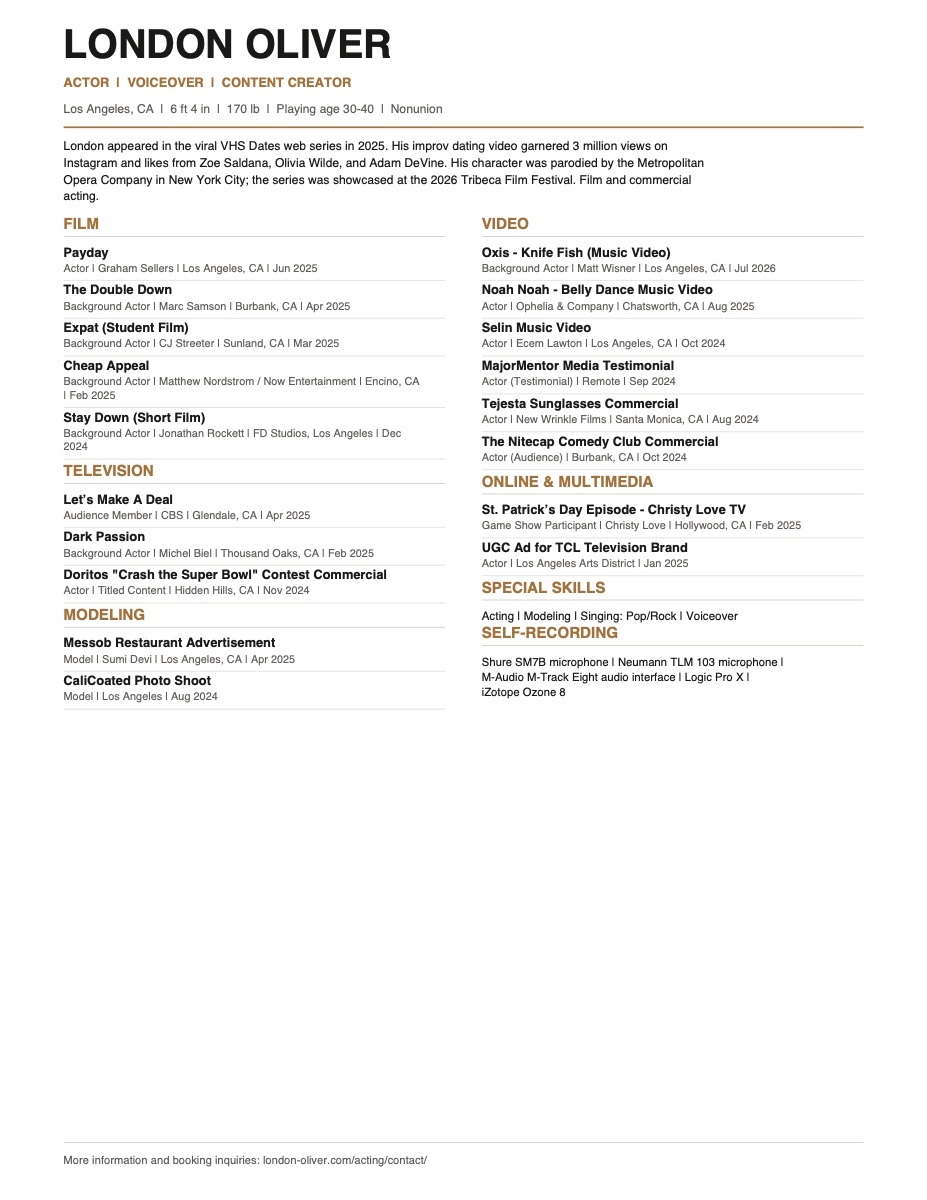
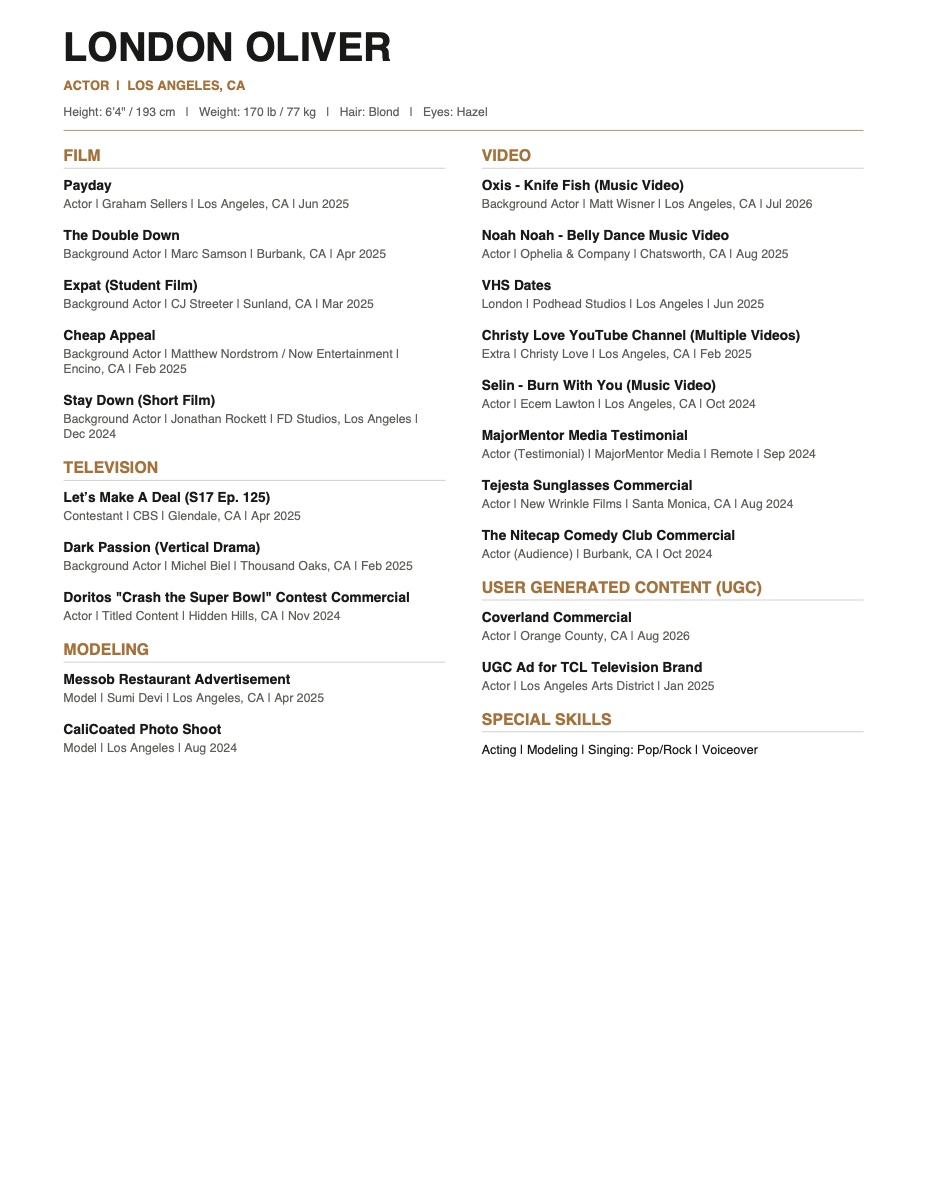
resume page done

diff --git a/acting/resume/index.html b/acting/resume/index.html
@@ -19,8 +19,8 @@
 
         * { box-sizing: border-box; }
         body { margin: 0; background: radial-gradient(circle at 78% 12%, rgba(217, 163, 95, .12), transparent 28rem), var(--paper); color: var(--ink); font-family: 'Manrope', Arial, sans-serif; }
-        header, main { margin: auto; width: min(1080px, calc(100% - clamp(32px, 7vw, 96px))); }
-        header { align-items: center; display: flex; justify-content: space-between; padding: 30px 0 18px; }
+        header, main { margin: 0; width: 100%; }
+        header { align-items: center; display: flex; justify-content: space-between; padding: 30px clamp(16px, 4vw, 48px) 18px; }
         .identity { color: var(--ink); font-family: 'Montserrat', Arial, sans-serif; font-size: clamp(.9rem, 1.8vw, 1.2rem); font-weight: 800; letter-spacing: .12em; line-height: 1.05; max-width: 10ch; text-decoration: none; text-transform: uppercase; }
         nav a { color: var(--muted); font-size: .72rem; font-weight: 700; letter-spacing: .14em; text-decoration: none; text-transform: uppercase; }
         nav a:hover, nav a:focus { color: var(--accent); }
@@ -51,18 +51,28 @@
         .resume-actions a { background: var(--accent); border-radius: 999px; color: #171716; font-size: .68rem; font-weight: 700; letter-spacing: .14em; padding: 16px 24px; text-decoration: none; text-transform: uppercase; }
         .resume-actions a:last-child { background: transparent; border: 1px solid var(--accent); color: var(--accent); }
         .resume-actions a:hover, .resume-actions a:focus { background: var(--ink); border-color: var(--ink); color: #171716; }
-        .download-main { margin: auto; max-width: 960px; padding: clamp(32px, 6vw, 72px) 0 clamp(64px, 10vw, 128px); width: min(960px, calc(100% - clamp(32px, 7vw, 96px))); }
+        .download-main { margin: 0; max-width: none; padding: clamp(32px, 6vw, 72px) clamp(16px, 4vw, 48px) clamp(64px, 10vw, 128px); width: 100%; }
         .download-page { text-align: left; }
-        .download-title { font-size: clamp(2.8rem, 7vw, 5.4rem); line-height: .86; margin: 0 0 clamp(36px, 6vw, 64px); max-width: none; }
-        .download-title span { display: block; }
+        .download-title { font-size: clamp(1.4rem, 5vw, 3.8rem); line-height: 1; margin: 0 0 clamp(36px, 6vw, 64px); max-width: none; white-space: nowrap; }
+        .download-title span { display: inline; }
+        .download-title span:first-child { margin-right: .18em; }
         .download-title span:last-child { color: var(--accent); }
         .download-grid { align-items: start; display: grid; gap: clamp(24px, 5vw, 64px); grid-template-columns: repeat(2, minmax(0, 1fr)); }
         .download-item { margin: 0; min-width: 0; }
-        .download-item img { aspect-ratio: 4 / 5; display: block; object-fit: contain; width: 100%; }
+        .preview-image { background: transparent; border: 0; border-radius: 14px; cursor: zoom-in; display: block; overflow: hidden; padding: 0; width: 100%; }
+        .download-item img { aspect-ratio: 4 / 5; border-radius: inherit; display: block; object-fit: contain; width: 100%; }
         .download-item:first-child img { object-fit: cover; }
+        .resume-pdf-link { background: #fff; border-radius: 14px; cursor: pointer; display: block; overflow: hidden; }
+        .download-item:nth-child(2) img { aspect-ratio: 927 / 1200; }
         .download-links { display: flex; justify-content: center; margin-top: 24px; }
         .download-link { background: var(--accent); border-radius: 999px; color: #171716; display: inline-block; font-size: .68rem; font-weight: 700; letter-spacing: .14em; padding: 16px 24px; text-align: center; text-decoration: none; text-transform: uppercase; }
         .download-link:hover, .download-link:focus-visible { background: var(--ink); color: var(--paper); }
+        .download-link--secondary { background: transparent; border: 1px solid var(--accent); color: var(--accent); }
+        .download-link--secondary:hover, .download-link--secondary:focus-visible { background: var(--accent); color: #171716; }
+        dialog { background: #111; border: 1px solid var(--line); border-radius: 12px; color: var(--ink); max-height: 92vh; max-width: min(92vw, 900px); overflow: hidden; padding: 0; }
+        dialog::backdrop { background: rgba(0, 0, 0, .88); }
+        dialog img { border-radius: 12px; display: block; max-height: 86vh; max-width: 90vw; object-fit: contain; }
+        .close { background: rgba(0, 0, 0, .65); border: 1px solid #777; border-radius: 999px; color: white; cursor: pointer; font-size: 1.4rem; line-height: 1; padding: 8px 12px; position: absolute; right: 12px; top: 12px; }
         .credit-block + .credit-block { margin-top: 48px; }
         .credit-block h2 { color: var(--accent); font-family: 'Montserrat', Arial, sans-serif; font-size: clamp(1.4rem, 3vw, 2rem); font-weight: 700; letter-spacing: .08em; margin: 0 0 18px; text-transform: uppercase; }
         .credits { border-top: 1px solid var(--line); margin: 0; padding: 0; width: 100%; }
@@ -71,16 +81,17 @@
         .credits .role, .credits .meta { color: var(--muted); }
         .credit-note { color: var(--muted); font-size: .95rem; line-height: 1.6; margin: 16px 0 0; }
         .site-footer { border-top: 1px solid var(--line); color: var(--muted); font-size: .78rem; letter-spacing: .04em; padding: 28px 0 36px; }
-        .footer-inner { align-items: center; display: flex; justify-content: space-between; margin: auto; width: min(1080px, calc(100% - clamp(32px, 7vw, 96px))); }
+        .footer-inner { align-items: center; display: flex; justify-content: space-between; margin: 0; padding: 0 clamp(16px, 4vw, 48px); width: 100%; }
         .social-links { display: flex; gap: clamp(20px, 4vw, 48px); }
         .social-links a { color: var(--ink); font-weight: 700; text-decoration: none; }
         .social-links a:hover, .social-links a:focus { color: var(--accent); }
 
         @media (max-width: 700px) {
-            header, main { width: min(100% - 32px, 560px); }
-            .download-main { padding-top: 36px; width: min(100% - 32px, 560px); }
+            header, main { width: 100%; }
+            header { padding-left: 16px; padding-right: 16px; }
+            .download-main { padding: 36px 16px clamp(64px, 10vw, 128px); width: 100%; }
             .download-grid { grid-template-columns: 1fr; max-width: 480px; }
-            .footer-inner { width: min(100% - 32px, 560px); }
+            .footer-inner { padding-left: 16px; padding-right: 16px; width: 100%; }
             header { padding-top: 18px; }
             .menu-toggle { display: flex; }
             .main-nav { align-items: stretch; background: var(--paper); border-bottom: 1px solid var(--line); border-top: 1px solid var(--line); display: none; flex-direction: column; gap: 0; left: 0; padding: 8px 16px 12px; position: absolute; right: 0; text-align: left; top: 62px; z-index: 2; }
@@ -122,22 +133,28 @@
             <h1 class="download-title" id="resume-heading"><span>Headshot</span><span>&amp; Resume</span></h1>
             <div class="download-grid">
                 <figure class="download-item">
-                    <img src="/acting/images/london-oliver-headshot.jpg" alt="London Oliver acting headshot in a black suit" fetchpriority="high">
+                    <button class="preview-image" type="button" data-image="/acting/images/london-oliver-headshot.jpg">
+                        <img src="/acting/images/london-oliver-headshot.jpg" alt="London Oliver in a blue plaid shirt" fetchpriority="high">
+                    </button>
                     <figcaption class="download-links">
                         <a class="download-link" href="/acting/images/london-oliver-headshot.jpg" download="London-Oliver-Headshot.jpg">Download headshot</a>
                     </figcaption>
                 </figure>
                 <figure class="download-item">
-                    <a href="/acting/resume/london-oliver-acting-resume.pdf" target="_blank" rel="noopener noreferrer" aria-label="Open the full resume PDF">
+                    <a class="resume-pdf-link" href="/acting/resume/london-oliver-acting-resume.pdf" target="_blank" rel="noopener noreferrer" aria-label="Open the resume PDF in your browser">
                         <img src="/acting/resume/london-oliver-resume-preview.jpg" alt="Preview of London Oliver’s acting resume" loading="lazy" decoding="async">
                     </a>
                     <figcaption class="download-links">
-                        <a class="download-link" href="/acting/resume/london-oliver-acting-resume.pdf" download="London-Oliver-Acting-Resume.pdf">Download resume (PDF)</a>
+                        <a class="download-link download-link--secondary" href="/acting/resume/london-oliver-acting-resume.pdf" download="London-Oliver-Acting-Resume.pdf">Download resume (PDF)</a>
                     </figcaption>
                 </figure>
             </div>
         </section>
     </main>
+    <dialog id="lightbox" aria-label="Expanded preview">
+        <button class="close" type="button" aria-label="Close preview">&times;</button>
+        <img id="lightbox-image" src="" alt="">
+    </dialog>
     <footer class="site-footer">
         <div class="footer-inner">
             <span>&copy; 2026 London Oliver</span>
@@ -148,6 +165,19 @@
         </div>
     </footer>
     <script>
+        const lightbox = document.querySelector('#lightbox');
+        const lightboxImage = document.querySelector('#lightbox-image');
+        document.querySelectorAll('.preview-image').forEach((preview) => {
+            preview.addEventListener('click', () => {
+                lightboxImage.src = preview.dataset.image;
+                lightboxImage.alt = preview.querySelector('img').alt;
+                lightbox.showModal();
+            });
+        });
+        document.querySelector('.close').addEventListener('click', () => lightbox.close());
+        lightbox.addEventListener('click', (event) => {
+            if (event.target === lightbox) lightbox.close();
+        });
         const menuToggle = document.querySelector('.menu-toggle');
         const mainNav = document.querySelector('.main-nav');
         menuToggle.addEventListener('click', () => {

diff --git a/acting/bio/index.html b/acting/bio/index.html
@@ -20,8 +20,8 @@
         * { box-sizing: border-box; }
 
         body { margin: 0; background: radial-gradient(circle at 78% 12%, rgba(217, 163, 95, .12), transparent 28rem), var(--paper); color: var(--ink); font-family: 'Manrope', Arial, sans-serif; }
-        header, main { margin: auto; width: min(1080px, calc(100% - clamp(32px, 7vw, 96px))); }
-        header { align-items: center; display: flex; justify-content: space-between; padding: 30px 0 18px; }
+        header, main { margin: 0; width: 100%; }
+        header { align-items: center; display: flex; justify-content: space-between; padding: 30px clamp(16px, 4vw, 48px) 18px; }
         .identity { color: var(--ink); font-family: 'Montserrat', Arial, sans-serif; font-size: clamp(.9rem, 1.8vw, 1.2rem); font-weight: 800; letter-spacing: .12em; line-height: 1.05; max-width: 10ch; text-decoration: none; text-transform: uppercase; }
         nav a { color: var(--muted); font-size: .72rem; font-weight: 700; letter-spacing: .14em; text-decoration: none; text-transform: uppercase; }
         nav a:hover, nav a:focus { color: var(--accent); }
@@ -33,7 +33,7 @@
         .main-nav a:hover::after, .main-nav a:focus-visible::after { transform: scaleX(1); transform-origin: left; }
         .menu-toggle { align-items: center; background: transparent; border: 0; color: var(--ink); cursor: pointer; display: none; flex-direction: column; gap: 5px; padding: 8px 2px; }
         .menu-toggle span { background: currentColor; display: block; height: 2px; width: 28px; }
-        main { padding: clamp(72px, 10vw, 140px) 0 0; }
+        main { padding: clamp(72px, 10vw, 140px) clamp(16px, 4vw, 48px) 0; }
         .eyebrow { color: var(--accent); font-size: .7rem; font-weight: 700; letter-spacing: .2em; text-transform: uppercase; }
         .about-hero { align-items: start; display: grid; gap: clamp(32px, 8vw, 112px); grid-template-columns: minmax(240px, .8fr) minmax(0, 1.2fr); }
         .about-portrait { margin: 0; position: relative; }
@@ -55,20 +55,21 @@
         .about-copy summary:hover, .about-copy summary:focus-visible { color: var(--accent); }
         .about-copy details[open] { border-top: 1px solid var(--line); padding-top: 16px; }
         .videos { background: rgba(0, 0, 0, .12); margin-left: calc(50% - 50vw); margin-top: 140px; padding: clamp(48px, 7vw, 96px) 0 clamp(24px, 4vw, 48px); width: 100vw; }
-        .videos-inner { margin: auto; width: min(1080px, calc(100% - clamp(32px, 7vw, 96px))); }
+        .videos-inner { margin: 0; padding: 0 clamp(16px, 4vw, 48px); width: 100%; }
         .videos h2 { color: var(--accent); font-family: 'Montserrat', Arial, sans-serif; font-size: clamp(2.2rem, 5vw, 4.5rem); font-weight: 700; line-height: .9; margin: 0 0 36px; text-transform: uppercase; }
         .video-card { max-width: 720px; }
         .video-card iframe { aspect-ratio: 16 / 9; border: 0; box-shadow: 0 18px 36px rgba(0, 0, 0, .3); display: block; width: 100%; }
         .site-footer { border-top: 1px solid var(--line); color: var(--muted); font-size: .78rem; letter-spacing: .04em; padding: 28px 0 36px; }
-        .footer-inner { align-items: center; display: flex; justify-content: space-between; margin: auto; width: min(1080px, calc(100% - clamp(32px, 7vw, 96px))); }
+        .footer-inner { align-items: center; display: flex; justify-content: space-between; margin: 0; padding: 0 clamp(16px, 4vw, 48px); width: 100%; }
         .social-links { display: flex; gap: clamp(20px, 4vw, 48px); }
         .social-links a { color: var(--ink); font-weight: 700; text-decoration: none; }
         .social-links a:hover, .social-links a:focus { color: var(--accent); }
 
         @media (max-width: 700px) {
-            header, main { width: min(100% - 32px, 560px); }
-            .footer-inner { width: min(100% - 32px, 560px); }
-            header { padding-top: 18px; }
+            header, main { width: 100%; }
+            header { padding: 18px 16px; }
+            main { padding-left: 16px; padding-right: 16px; }
+            .footer-inner { padding-left: 16px; padding-right: 16px; width: 100%; }
             .menu-toggle { display: flex; }
             .main-nav { align-items: stretch; background: var(--paper); border-bottom: 1px solid var(--line); border-top: 1px solid var(--line); display: none; flex-direction: column; gap: 0; left: 0; padding: 8px 16px 12px; position: absolute; right: 0; text-align: left; top: 62px; z-index: 2; }
             .main-nav a { padding: 16px 0; }
@@ -78,7 +79,7 @@
             .about-hero { display: flex; flex-direction: column; gap: 52px; }
             .about-portrait { align-self: center; max-width: 430px; width: 100%; }
             .about-copy { padding-top: 0; }
-            .videos-inner { width: min(100% - 32px, 560px); }
+            .videos-inner { padding-left: 16px; padding-right: 16px; width: 100%; }
         }
     </style>
 </head>

diff --git a/acting/gallery/index.html b/acting/gallery/index.html
@@ -19,8 +19,8 @@
 
         * { box-sizing: border-box; }
         body { margin: 0; background: radial-gradient(circle at 78% 12%, rgba(217, 163, 95, .12), transparent 28rem), var(--paper); color: var(--ink); font-family: 'Manrope', Arial, sans-serif; }
-        header, main { margin: auto; width: min(1200px, calc(100% - clamp(32px, 7vw, 96px))); }
-        header { align-items: center; display: flex; justify-content: space-between; padding: 30px 0 18px; }
+        header, main { margin: 0; width: 100%; }
+        header { align-items: center; display: flex; justify-content: space-between; padding: 30px clamp(16px, 4vw, 48px) 18px; }
         .identity { color: var(--ink); font-family: 'Montserrat', Arial, sans-serif; font-size: clamp(.9rem, 1.8vw, 1.2rem); font-weight: 800; letter-spacing: .12em; line-height: 1.05; max-width: 10ch; text-decoration: none; text-transform: uppercase; }
         nav a { color: var(--muted); font-size: .72rem; font-weight: 700; letter-spacing: .14em; text-decoration: none; text-transform: uppercase; }
         nav a:hover, nav a:focus { color: var(--accent); }
@@ -32,7 +32,7 @@
         .main-nav a:hover::after, .main-nav a:focus-visible::after { transform: scaleX(1); transform-origin: left; }
         .menu-toggle { align-items: center; background: transparent; border: 0; color: var(--ink); cursor: pointer; display: none; flex-direction: column; gap: 5px; padding: 8px 2px; }
         .menu-toggle span { background: currentColor; display: block; height: 2px; width: 28px; }
-        main { padding: clamp(24px, 4vw, 56px) 0 clamp(64px, 10vw, 128px); }
+        main { padding: clamp(24px, 4vw, 56px) clamp(16px, 4vw, 48px) clamp(64px, 10vw, 128px); }
         .gallery-intro { margin-bottom: clamp(42px, 7vw, 88px); max-width: 760px; }
         .eyebrow { color: var(--accent); font-size: .7rem; font-weight: 700; letter-spacing: .2em; text-transform: uppercase; }
         h1 { font-family: 'Montserrat', Arial, sans-serif; font-size: clamp(2.8rem, 5vw, 4.8rem); font-weight: 800; line-height: .9; margin: 18px 0 24px; max-width: 8ch; text-transform: uppercase; }
@@ -47,7 +47,7 @@
         .portrait img { aspect-ratio: 4 / 5; display: block; object-fit: cover; transition: transform .5s ease, filter .5s ease; width: 100%; }
         .portrait:hover img, .portrait:focus-visible img { filter: brightness(.78); transform: scale(1.025); }
         .site-footer { border-top: 1px solid var(--line); color: var(--muted); font-size: .78rem; letter-spacing: .04em; padding: 28px 0 36px; }
-        .footer-inner { align-items: center; display: flex; justify-content: space-between; margin: auto; width: min(1200px, calc(100% - clamp(32px, 7vw, 96px))); }
+        .footer-inner { align-items: center; display: flex; justify-content: space-between; margin: 0; padding: 0 clamp(16px, 4vw, 48px); width: 100%; }
         .social-links { display: flex; gap: clamp(20px, 4vw, 48px); }
         .social-links a { color: var(--ink); font-weight: 700; text-decoration: none; }
         .social-links a:hover, .social-links a:focus { color: var(--accent); }
@@ -57,9 +57,10 @@
         .close { background: rgba(0, 0, 0, .65); border: 1px solid #777; color: white; cursor: pointer; font-size: 1.4rem; line-height: 1; padding: 8px 12px; position: absolute; right: 12px; top: 12px; }
 
         @media (max-width: 700px) {
-            header, main { width: min(100% - 32px, 560px); }
-            .footer-inner { width: min(100% - 32px, 560px); }
-            header { padding-top: 18px; }
+            header, main { width: 100%; }
+            header { padding: 18px 16px; }
+            main { padding-left: 16px; padding-right: 16px; }
+            .footer-inner { padding-left: 16px; padding-right: 16px; width: 100%; }
             .menu-toggle { display: flex; }
             .main-nav { align-items: stretch; background: var(--paper); border-bottom: 1px solid var(--line); border-top: 1px solid var(--line); display: none; flex-direction: column; gap: 0; left: 0; padding: 8px 16px 12px; position: absolute; right: 0; text-align: left; top: 62px; z-index: 2; }
             .main-nav a { padding: 16px 0; }

diff --git a/acting/contact/index.html b/acting/contact/index.html
@@ -19,8 +19,8 @@
 
         * { box-sizing: border-box; }
         body { margin: 0; background: radial-gradient(circle at 78% 12%, rgba(217, 163, 95, .12), transparent 28rem), var(--paper); color: var(--ink); font-family: 'Manrope', Arial, sans-serif; }
-        header, main { margin: auto; width: min(1080px, calc(100% - clamp(32px, 7vw, 96px))); }
-        header { align-items: center; display: flex; justify-content: space-between; padding: 30px 0 18px; }
+        header, main { margin: 0; width: 100%; }
+        header { align-items: center; display: flex; justify-content: space-between; padding: 30px clamp(16px, 4vw, 48px) 18px; }
         .identity { color: var(--ink); font-family: 'Montserrat', Arial, sans-serif; font-size: clamp(.9rem, 1.8vw, 1.2rem); font-weight: 800; letter-spacing: .12em; line-height: 1.05; max-width: 10ch; text-decoration: none; text-transform: uppercase; }
         nav a { color: var(--muted); font-size: .72rem; font-weight: 700; letter-spacing: .14em; text-decoration: none; text-transform: uppercase; }
         nav a:hover, nav a:focus { color: var(--accent); }
@@ -32,7 +32,7 @@
         .main-nav a:hover::after, .main-nav a:focus-visible::after { transform: scaleX(1); transform-origin: left; }
         .menu-toggle { align-items: center; background: transparent; border: 0; color: var(--ink); cursor: pointer; display: none; flex-direction: column; gap: 5px; padding: 8px 2px; }
         .menu-toggle span { background: currentColor; display: block; height: 2px; width: 28px; }
-        main { padding: clamp(24px, 4vw, 56px) 0 clamp(64px, 10vw, 128px); }
+        main { padding: clamp(24px, 4vw, 56px) clamp(16px, 4vw, 48px) clamp(64px, 10vw, 128px); }
         h1 { font-family: 'Montserrat', Arial, sans-serif; font-size: clamp(3.5rem, 8vw, 7rem); font-weight: 800; line-height: .86; margin: 0 0 28px; max-width: 8ch; text-transform: uppercase; }
         h1 span { display: block; }
         h1 span:last-child { color: var(--accent); }
@@ -52,15 +52,16 @@
         button[type="submit"]:hover, button[type="submit"]:focus { background: var(--ink); }
         .form-status { color: var(--muted); font-size: .95rem; margin: 0; min-height: 1.4em; }
         .site-footer { border-top: 1px solid var(--line); color: var(--muted); font-size: .78rem; letter-spacing: .04em; padding: 28px 0 36px; }
-        .footer-inner { align-items: center; display: flex; justify-content: space-between; margin: auto; width: min(1080px, calc(100% - clamp(32px, 7vw, 96px))); }
+        .footer-inner { align-items: center; display: flex; justify-content: space-between; margin: 0; padding: 0 clamp(16px, 4vw, 48px); width: 100%; }
         .social-links { display: flex; gap: clamp(20px, 4vw, 48px); }
         .social-links a { color: var(--ink); font-weight: 700; text-decoration: none; }
         .social-links a:hover, .social-links a:focus { color: var(--accent); }
 
         @media (max-width: 700px) {
-            header, main { width: min(100% - 32px, 560px); }
-            .footer-inner { width: min(100% - 32px, 560px); }
-            header { padding-top: 18px; }
+            header, main { width: 100%; }
+            header { padding: 18px 16px; }
+            main { padding-left: 16px; padding-right: 16px; }
+            .footer-inner { padding-left: 16px; padding-right: 16px; width: 100%; }
             .menu-toggle { display: flex; }
             .main-nav { align-items: stretch; background: var(--paper); border-bottom: 1px solid var(--line); border-top: 1px solid var(--line); display: none; flex-direction: column; gap: 0; left: 0; padding: 8px 16px 12px; position: absolute; right: 0; text-align: left; top: 62px; z-index: 2; }
             .main-nav a { padding: 16px 0; }

diff --git a/acting/index.html b/acting/index.html
@@ -26,14 +26,14 @@
             font-family: 'Manrope', Arial, sans-serif;
         }
 
-        header, main { margin: auto; width: min(1080px, calc(100% - clamp(32px, 7vw, 96px))); }
-        main { padding-bottom: clamp(64px, 10vw, 128px); }
+        header, main { margin: 0; width: 100%; }
+        main { padding: 0 clamp(16px, 4vw, 48px) clamp(64px, 10vw, 128px); }
 
         header {
             align-items: center;
             display: flex;
             justify-content: space-between;
-            padding: 30px 0 18px;
+            padding: 30px clamp(16px, 4vw, 48px) 18px;
         }
 
         .identity { color: var(--ink); font-family: 'Montserrat', Arial, sans-serif; font-size: clamp(.9rem, 1.8vw, 1.2rem); font-weight: 800; letter-spacing: .12em; line-height: 1.05; max-width: 10ch; text-decoration: none; text-transform: uppercase; }
@@ -83,7 +83,7 @@
         .portrait:hover img, .portrait:focus-visible img { filter: brightness(.78); transform: scale(1.025); }
 
         .site-footer { border-top: 1px solid var(--line); color: var(--muted); font-size: .78rem; letter-spacing: .04em; padding: 28px 0 36px; }
-        .footer-inner { align-items: center; display: flex; justify-content: space-between; margin: auto; width: min(1080px, calc(100% - clamp(32px, 7vw, 96px))); }
+        .footer-inner { align-items: center; display: flex; justify-content: space-between; margin: 0; padding: 0 clamp(16px, 4vw, 48px); width: 100%; }
         .social-links { display: flex; gap: clamp(20px, 4vw, 48px); }
         .social-links a { color: var(--ink); font-weight: 700; text-decoration: none; }
         .social-links a:hover, .social-links a:focus { color: var(--accent); }
@@ -102,9 +102,10 @@
         }
 
         @media (max-width: 700px) {
-            header, main { width: min(100% - 32px, 560px); }
-            .footer-inner { width: min(100% - 32px, 560px); }
-            header { padding-top: 18px; }
+            header, main { width: 100%; }
+            header { padding: 18px 16px 18px; }
+            main { padding-left: 16px; padding-right: 16px; }
+            .footer-inner { padding-left: 16px; padding-right: 16px; width: 100%; }
             .menu-toggle { display: flex; }
             .main-nav { align-items: stretch; background: var(--paper); border-bottom: 1px solid var(--line); border-top: 1px solid var(--line); display: none; flex-direction: column; gap: 0; left: 0; padding: 8px 16px 12px; position: absolute; right: 0; text-align: left; top: 62px; z-index: 2; }
             .main-nav a { font-size: .78rem; padding: 16px 0; }

diff --git a/photography/index.html b/photography/index.html
@@ -4,6 +4,7 @@
     <meta charset="UTF-8">
     <meta name="viewport" content="width=device-width, initial-scale=1.0">
     <title>Photography | London Oliver</title>
+    <style>body { margin: 0; padding: clamp(16px, 4vw, 48px); }</style>
 </head>
 <body>
     <h1>Photography</h1>

diff --git a/index.html b/index.html
@@ -4,6 +4,7 @@
     <meta charset="UTF-8">
     <meta name="viewport" content="width=device-width, initial-scale=1.0">
     <title>London Oliver</title>
+    <style>body { margin: 0; padding: clamp(16px, 4vw, 48px); }</style>
 </head>
 <body>
   <nav aria-label="Main navigation">

diff --git a/production/index.html b/production/index.html
@@ -4,6 +4,7 @@
     <meta charset="UTF-8">
     <meta name="viewport" content="width=device-width, initial-scale=1.0">
     <title>Production | London Oliver</title>
+    <style>body { margin: 0; padding: clamp(16px, 4vw, 48px); }</style>
 </head>
 <body>
     <h1>Production</h1>

diff --git a/music/index.html b/music/index.html
@@ -4,6 +4,7 @@
     <meta charset="UTF-8">
     <meta name="viewport" content="width=device-width, initial-scale=1.0">
     <title>Music | London Oliver</title>
+    <style>body { margin: 0; padding: clamp(16px, 4vw, 48px); }</style>
 </head>
 <body>
     <h1>Music</h1>
